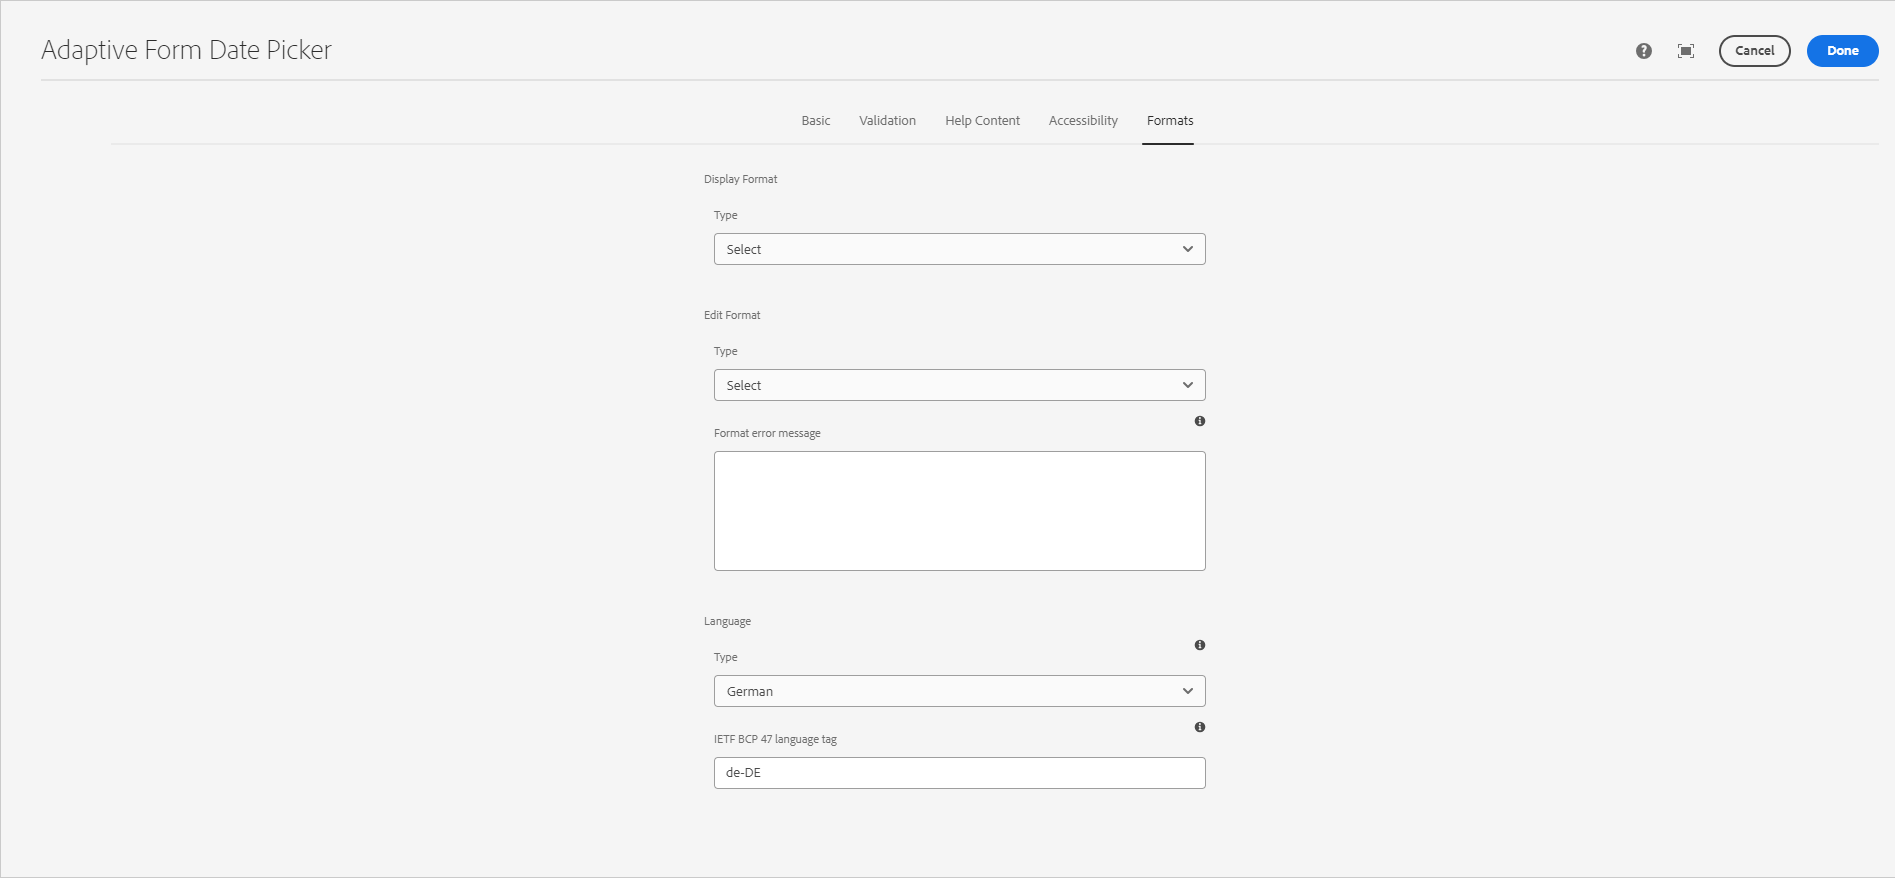
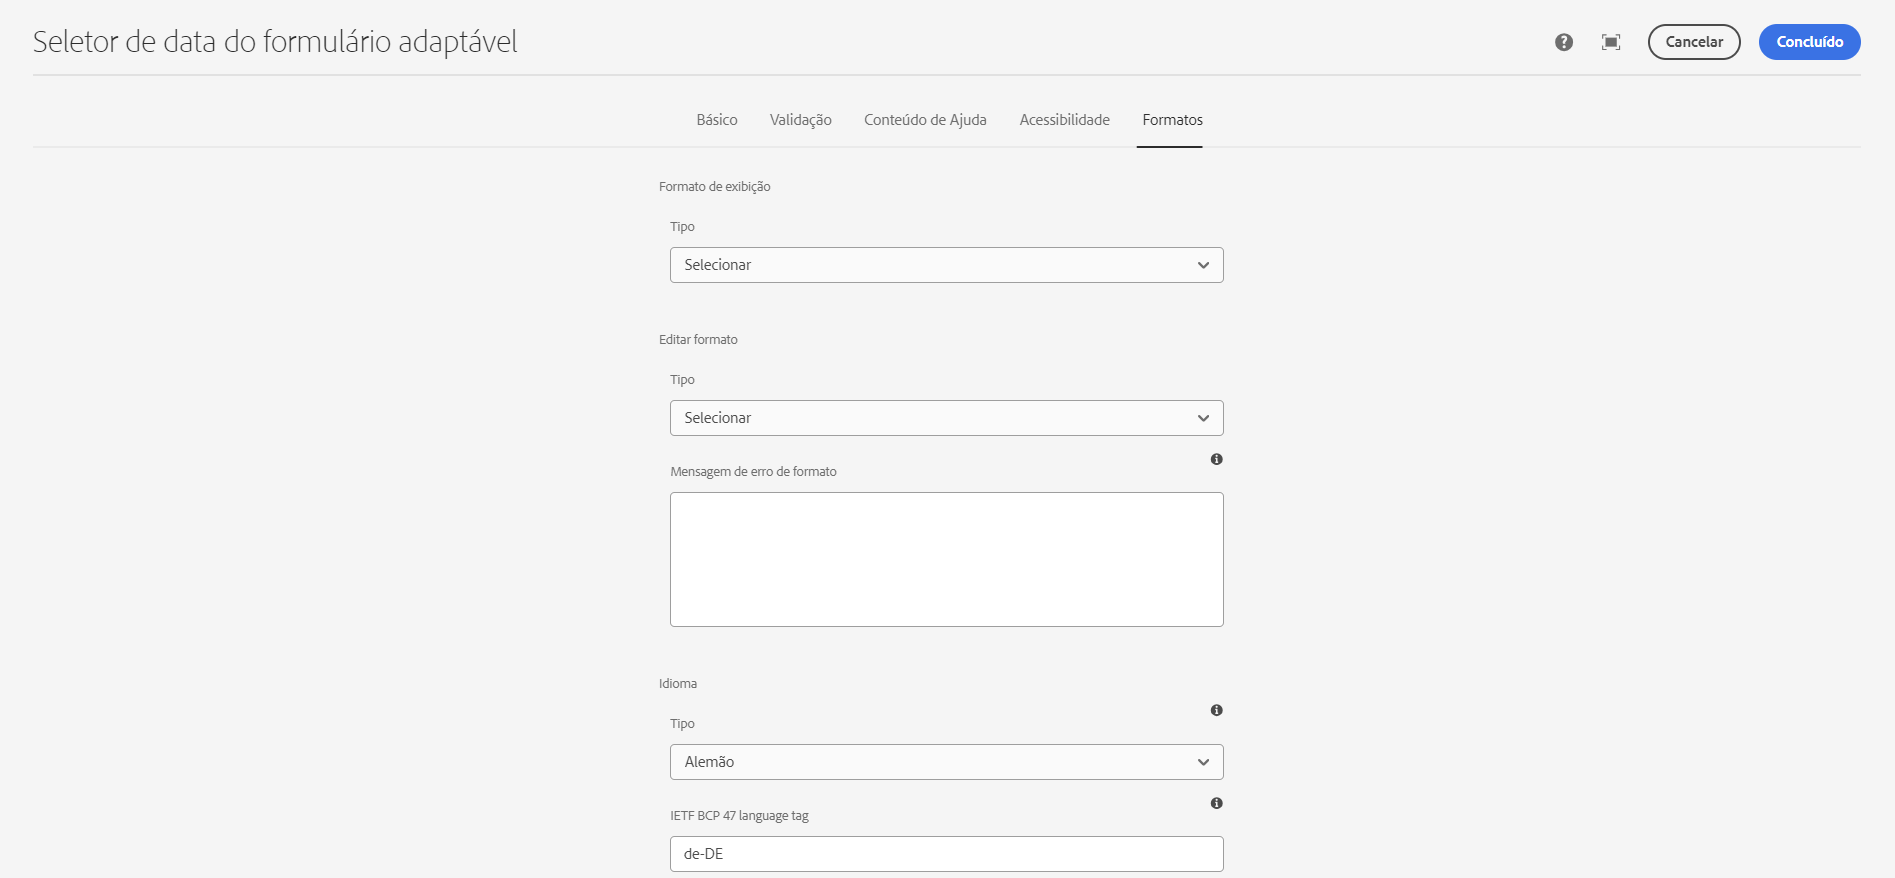
Updated by task 'AUTO_HANDOFF_1717682889391'  Changes for core/source commit https://git.corp.adobe.com/AdobeDocs/experience-manager-core-components.en/commit/b6ceef13539e7d2b3322df5a0b6369d114ae15b9

diff --git a/help/adaptive-forms/components/numeric-box.md b/help/adaptive-forms/components/numeric-box.md
@@ -4,15 +4,15 @@ description: Utilização ou personalização do Componente principal de entrada
 role: Architect, Developer, Admin, User
 exl-id: 75604ecf-1ec5-4e97-b934-d6ed49726147
 source-git-commit: b4a66a407e92398a98441c65ab588b9720777dfa
-workflow-type: tm+mt
+workflow-type: ht
 source-wordcount: '2283'
-ht-degree: 93%
+ht-degree: 100%
 
 ---
 
 # Componente Caixa numérica{#number-input-adaptive-forms-core-component}
 
-Um componente Caixa numérica em um formulário adaptável é um tipo de campo de formulário que permite que os usuários insiram valores numéricos. Normalmente, o componente é representado por um campo de texto com uma seta para cima e para baixo para aumentar e diminuir o número.
+Um componente Caixa numérica em um formulário adaptável é um tipo de campo de formulário que permite aos usuários inserir valores numéricos. Normalmente, o componente é representado por um campo de texto com uma seta para cima e para baixo para aumentar e diminuir o número.
 
 Também pode ser usado com atributos como mín., máx., etapa, valor e muito mais. Esses atributos podem ser usados para definir os valores mínimo e máximo permitidos no campo, o intervalo de etapas para aumentar ou diminuir o número e o valor padrão do campo.
 
@@ -127,20 +127,20 @@ Você pode personalizar facilmente a experiência de entrada de números para vi
 ![Guia Acessibilidade](/help/adaptive-forms/assets/numberinput_formattab.png)
 
 - **Exibir formato**: isso permite selecionar opções de diferentes tipos de formatos inteiros-numéricos para exibição. Quando o usuário seleciona qualquer opção do menu suspenso **Tipo**, a opção **Formato** se torna visível no painel. É possível escolher um formato específico no qual os números serão exibidos para o usuário.
-- **Idioma** - Esse recurso é usado para formatar o campo específico. Quando um usuário seleciona qualquer opção de idioma no **Tipo** menu suspenso, a variável **Marca de idioma IETF BCP 47** será exibida no painel. Você pode escolher o idioma para a formatação de campo ao traduzir um Formulário adaptável em um idioma específico.
+- **Idioma**: esse recurso é usado para formatar o campo específico. Quando um usuário seleciona qualquer opção de idioma no menu suspenso **Tipo**, a opção **Tag de idioma IETF BCP 47** aparece no painel. Você pode escolher o idioma para a formatação de campo ao traduzir um formulário adaptável para um idioma específico.
 
-O conjunto de idiomas não está visível por padrão, mas os usuários podem inserir um idioma personalizado **Marca de idioma IETF BCP 47** atualizando a política do template:
+O conjunto de idiomas não está visível por padrão, mas os usuários podem inserir uma **Tag de idioma IETF BCP 47** personalizada atualizando a política do modelo:
 
-1. Abra o modelo correspondente associado a um Formulário adaptável no editor de modelos.
+1. Abra o modelo correspondente associado a um formulário adaptável no editor de modelo.
 2. Selecione a política existente como `numberinput-default-policy` no menu suspenso.
 
-   ![Política de modelo do Seletor de Data](/help/adaptive-forms/assets/numberinput-template-policy.png)
+   ![Política de modelo do seletor de data](/help/adaptive-forms/assets/numberinput-template-policy.png)
 
 3. Clique em **Concluído**.
 
    >[!NOTE]
    >
-   > Para obter mais informações sobre como traduzir um Formulário adaptável para um local específico, [clique aqui](https://experienceleague.adobe.com/en/docs/experience-manager-cloud-service/content/forms/adaptive-forms-authoring/authoring-adaptive-forms-core-components/create-an-adaptive-form-on-forms-cs/supporting-new-language-localization-core-components).
+   > Para obter mais informações sobre como traduzir um formulário adaptável para um idioma específico, [clique aqui](https://experienceleague.adobe.com/pt-br/docs/experience-manager-cloud-service/content/forms/adaptive-forms-authoring/authoring-adaptive-forms-core-components/create-an-adaptive-form-on-forms-cs/supporting-new-language-localization-core-components).
 
 
 ## Caixa de diálogo Design {#design-dialog}

diff --git a/help/adaptive-forms/components/date-picker.md b/help/adaptive-forms/components/date-picker.md
@@ -4,9 +4,9 @@ description: Utilização ou personalização do Componente principal do seletor
 role: Architect, Developer, Admin, User
 exl-id: aa9402de-ca57-4c19-8d36-2dd0a78d6806
 source-git-commit: b4a66a407e92398a98441c65ab588b9720777dfa
-workflow-type: tm+mt
+workflow-type: ht
 source-wordcount: '2299'
-ht-degree: 93%
+ht-degree: 100%
 
 ---
 
@@ -131,21 +131,21 @@ Você pode personalizar facilmente sua experiência de seletor de datas para vis
 - **Exibir formato** - Representa o formato de data exibido ao usuário. A opção **Tipo** permite que o usuário selecione o formato de data. Você também pode personalizar o formato de data usando a opção **Personalizado** no menu suspenso **Tipo**.
 
 - **Editar formato** - Representa um formato de data em que o usuário pode editar a data. A opção **Tipo** permite que o usuário selecione o formato de data. Você também pode personalizar o formato de data usando a opção **Personalizado** no menu suspenso **Tipo**.
-- **Mensagem de erro de formato** - Essa opção permite inserir a mensagem exibida na tela quando a data inserida não estiver no formato correto.
-- **Idioma** - Esse recurso é usado para formatar o campo específico. Quando um usuário seleciona qualquer opção de idioma no **Tipo** menu suspenso, a variável **Marca de idioma IETF BCP 47** será exibida no painel. Você pode escolher o idioma para a formatação de campo ao traduzir um Formulário adaptável em um idioma específico.
+- **Mensagem de erro de formato**: essa opção permite inserir a mensagem exibida na tela quando a data inserida não está no formato correto.
+- **Idioma**: esse recurso é usado para formatar o campo específico. Quando um usuário seleciona qualquer opção de idioma no menu suspenso **Tipo**, a opção **Tag de idioma IETF BCP 47** aparece no painel. Você pode escolher o idioma para a formatação de campo ao traduzir um formulário adaptável para um idioma específico.
 
-O conjunto de idiomas não está visível por padrão, mas os usuários podem inserir um idioma personalizado **Marca de idioma IETF BCP 47** atualizando a política do template:
+O conjunto de idiomas não está visível por padrão, mas os usuários podem inserir uma **Tag de idioma IETF BCP 47** personalizada atualizando a política do modelo:
 
-1. Abra o modelo correspondente associado a um Formulário adaptável no editor de modelos.
+1. Abra o modelo correspondente associado a um formulário adaptável no editor de modelo.
 2. Selecione a política existente como `datepicker-default-policy` no menu suspenso.
 
-   ![Política de modelo do Seletor de Data](/help/adaptive-forms/assets/date-picker-template-policy.png)
+   ![Política de modelo do seletor de data](/help/adaptive-forms/assets/date-picker-template-policy.png)
 
 3. Clique em **Concluído**.
 
    >[!NOTE]
    >
-   > Para obter mais informações sobre como traduzir um Formulário adaptável para um local específico, [clique aqui](https://experienceleague.adobe.com/en/docs/experience-manager-cloud-service/content/forms/adaptive-forms-authoring/authoring-adaptive-forms-core-components/create-an-adaptive-form-on-forms-cs/supporting-new-language-localization-core-components).
+   > Para obter mais informações sobre como traduzir um formulário adaptável para um idioma específico, [clique aqui](https://experienceleague.adobe.com/pt-br/docs/experience-manager-cloud-service/content/forms/adaptive-forms-authoring/authoring-adaptive-forms-core-components/create-an-adaptive-form-on-forms-cs/supporting-new-language-localization-core-components).
 
 ## Caixa de diálogo Design {#design-dialog}
 

diff --git a/help/adaptive-forms/components/phone.md b/help/adaptive-forms/components/phone.md
@@ -4,16 +4,16 @@ description: Uso ou personalização do componente principal de entrada de telef
 role: Architect, Developer, Admin, User
 exl-id: d06179ac-04bd-4af4-b6ac-c4c78086058c
 source-git-commit: b4a66a407e92398a98441c65ab588b9720777dfa
-workflow-type: tm+mt
+workflow-type: ht
 source-wordcount: '2197'
-ht-degree: 99%
+ht-degree: 100%
 
 ---
 
 
 # Componente de celular{#telephone-input-adaptive-forms-core-component}
 
-O componente principal do telefone do formulário adaptável permite que os usuários insiram um número de telefone. O campo de entrada de telefone exibe teclados em dispositivos móveis que são relevantes para números de telefone. Ele pode ser personalizado com atributos adicionais, como um “padrão” e um “espaço reservado”, para especificar o formato e a descrição do número de telefone.
+O componente principal de telefone de formulário adaptável permite que os usuários insiram um número de telefone. O campo de entrada de telefone exibe teclados em dispositivos móveis que são relevantes para números de telefone. Ele pode ser personalizado com atributos adicionais, como um “padrão” e um “espaço reservado”, para especificar o formato e a descrição do número de telefone.
 
 O campo de entrada de telefone é usado normalmente em formulários de contato, de registro e outros formulários nos quais um número de telefone é necessário como meio de contato. O campo de entrada de telefone também pode ser usado para garantir que o usuário insira um número de telefone válido, pois o navegador pode impor determinadas restrições, como o comprimento e o formato do número de telefone, com base no atributo “padrão”.
 
